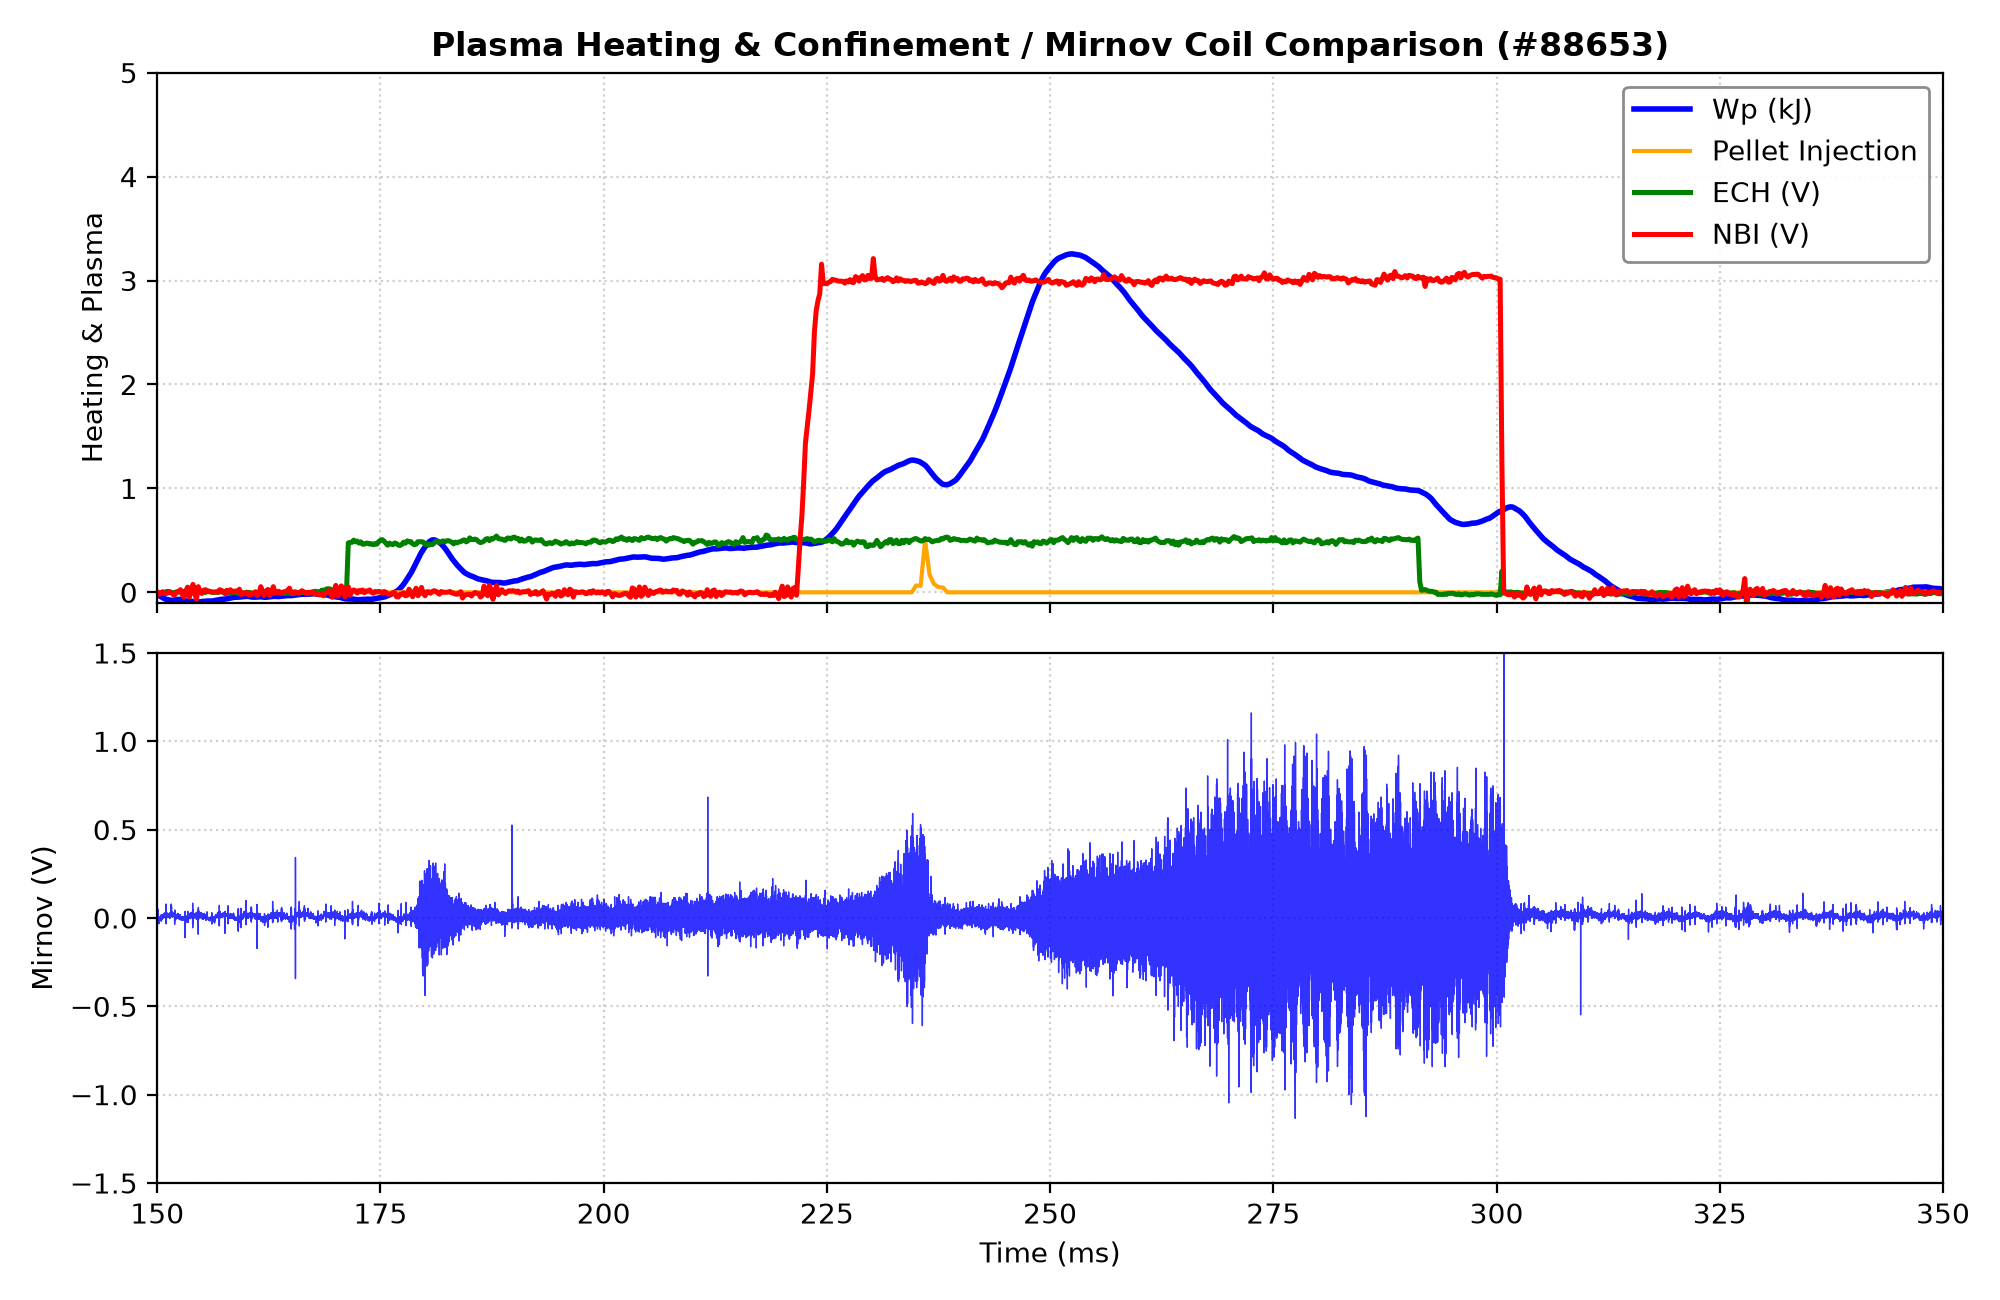
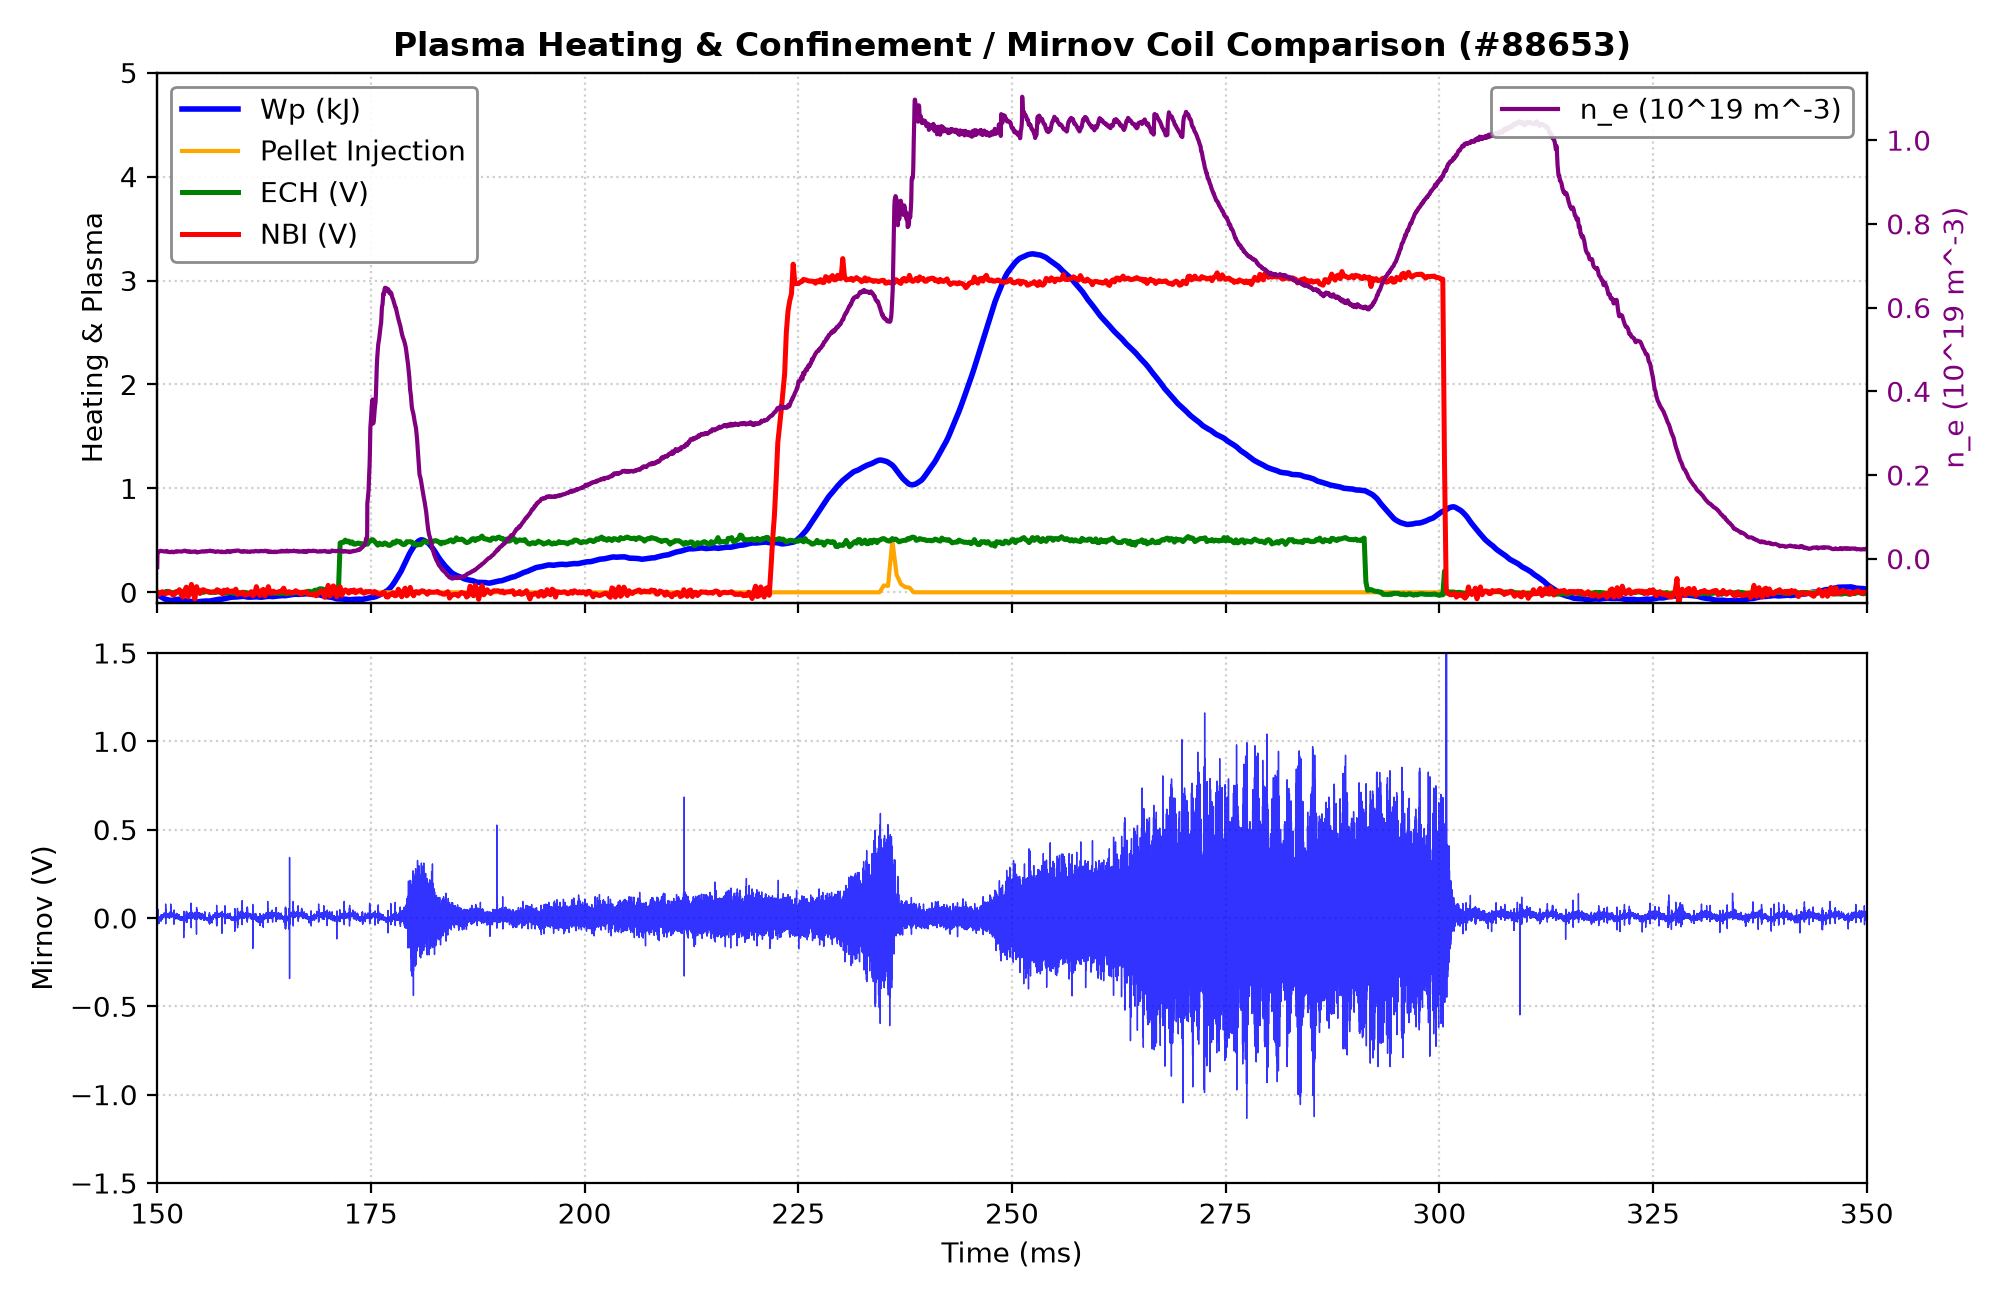
Update heating_vs_mirnov.py to include plasma density (nave) on twinx axis

diff --git a/analysis/obj2_dynamics_and_structure/heating_vs_mirnov.py b/analysis/obj2_dynamics_and_structure/heating_vs_mirnov.py
@@ -64,6 +64,15 @@ def plot_heating_vs_mirnov(shot=SHOT, out_dir=None):
     t_nir = dat_nir[:, 0]
     y_nir = dat_nir[:, 1]
 
+    nave_file = base_dir / f"nave@{shot}.edf"
+    if nave_file.exists():
+        edf_nave = TE.edf()
+        dat_nave = edf_nave.load(str(nave_file))
+        t_nave = dat_nave[:, 0]
+        y_nave = dat_nave[:, 1]
+    else:
+        t_nave, y_nave = None, None
+
     y_pellet = np.where(y_nir >= 0.15, y_nir, 0.0)
     max_pellet = y_pellet.max()
     if max_pellet > 0:
@@ -82,7 +91,14 @@ def plot_heating_vs_mirnov(shot=SHOT, out_dir=None):
     ax1.set_ylabel("Heating & Plasma", fontsize=10)
     ax1.set_ylim(-0.1, 5.0)
     ax1.grid(True, linestyle=':', alpha=0.6)
-    ax1.legend(loc='upper right', frameon=True, facecolor='white', framealpha=0.9, edgecolor='gray')
+    ax1.legend(loc='upper left', frameon=True, facecolor='white', framealpha=0.9, edgecolor='gray')
+
+    if t_nave is not None:
+        ax3 = ax1.twinx()
+        ax3.plot(t_nave, y_nave, color='purple', linewidth=1.5, label='n_e (10^19 m^-3)')
+        ax3.set_ylabel("n_e (10^19 m^-3)", fontsize=10, color='purple')
+        ax3.tick_params(axis='y', labelcolor='purple')
+        ax3.legend(loc='upper right', frameon=True, facecolor='white', framealpha=0.9, edgecolor='gray')
 
     ax2.plot(t_mp1, y_mp1, color='blue', linewidth=0.5, alpha=0.8, label='MP1')
     ax2.set_ylabel("Mirnov (V)", fontsize=10)
@@ -100,5 +116,7 @@ def plot_heating_vs_mirnov(shot=SHOT, out_dir=None):
 
 
 if __name__ == "__main__":
-    plot_heating_vs_mirnov()
+    out_path = root_dir / "Images" / "obj2_dynamics_and_structure"
+    out_path.mkdir(parents=True, exist_ok=True)
+    plot_heating_vs_mirnov(out_dir=out_path)
 
